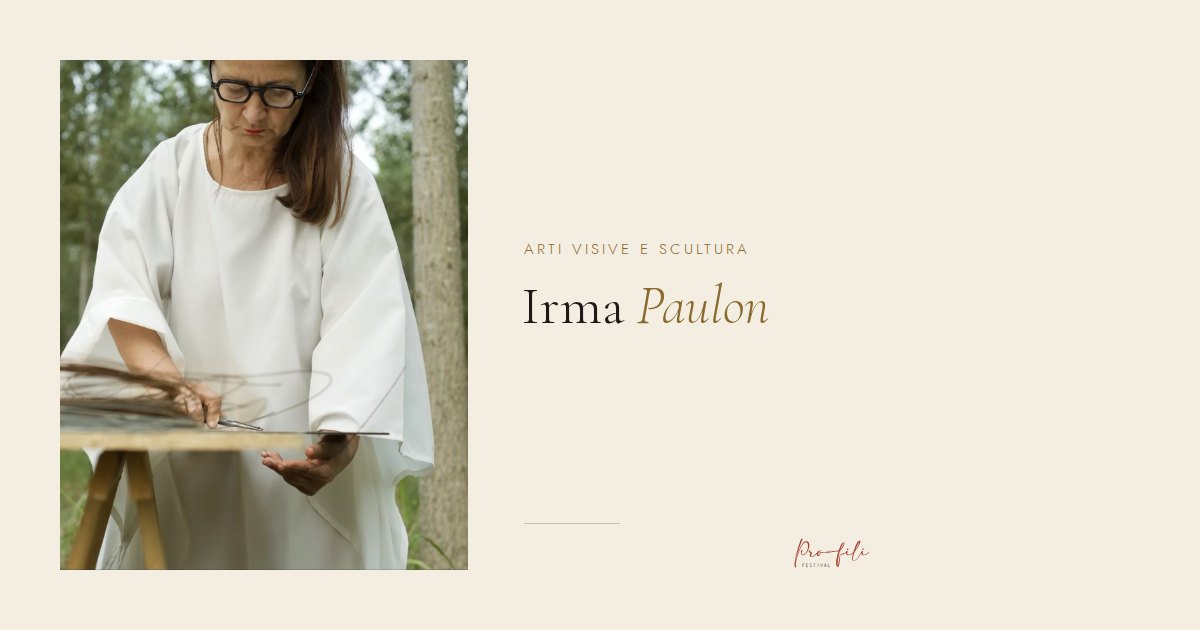
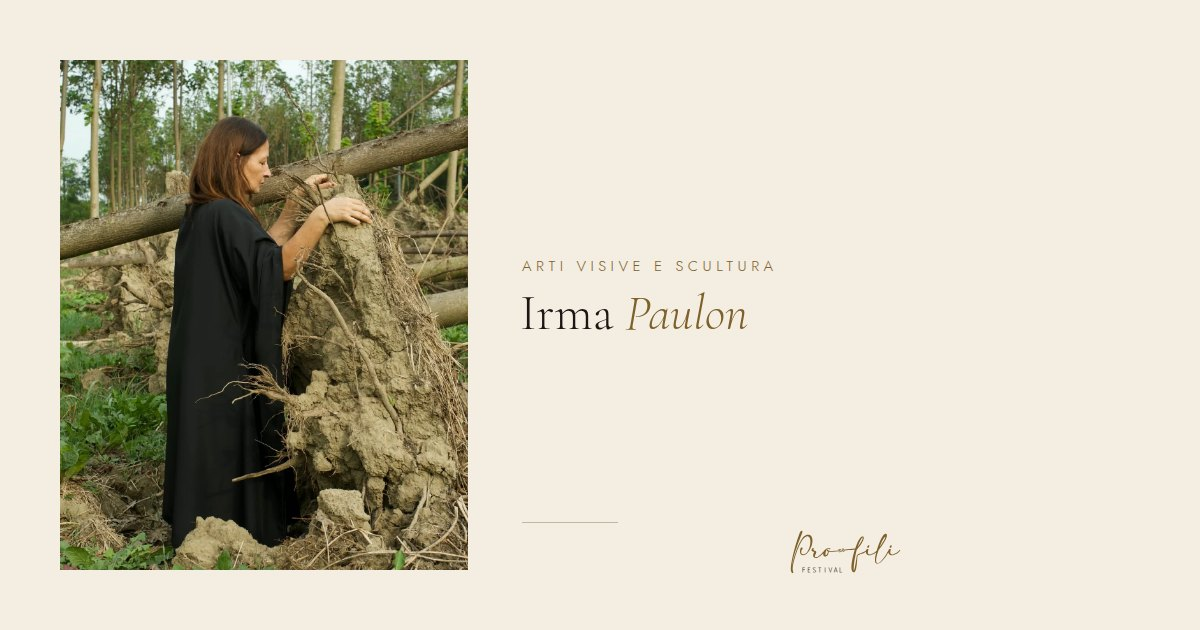
Irma Paulon: nuova foto, di profilo tra le radici (#51)
Claude-Session: https://claude.ai/code/session_01WuBrQzAiBeGJU4FicGTrQ8

diff --git a/assets/js/site.js b/assets/js/site.js
@@ -872,7 +872,7 @@
     {s:"francesca-de-simone",n:"Francesca De Simone",r:"Poesia",t:"Fissa in pochi versi un sentire sconosciuto.",i:"francesca-de-simone.webp",ss:"francesca-de-simone_sm.webp 800w, francesca-de-simone.webp 1280w",a:"Ritratto di Francesca De Simone, di profilo, in bianco e nero",w:1280,h:1600},
     {s:"elia-pellegrini",n:"Elia Pellegrini",r:"Arti visive e 3D",t:"Luce, architettura e tempo, tra i rosoni gotici e il mondo onirico.",i:"elia-pellegrini.webp",ss:"elia-pellegrini_sm.webp 800w, elia-pellegrini.webp 1280w",a:"Ritratto di Elia Pellegrini, con il volto attraversato dalle nuvole",w:1280,h:1600},
     {s:"alessandro-alfonsi",n:"Alessandro Alfonsi",r:"Musica e teatro",t:"Musica e parola, memoria e ascolto.",i:"alessandro-alfonsi.webp",ss:"alessandro-alfonsi_sm.webp 800w, alessandro-alfonsi.webp 1280w",a:"Ritratto di Alessandro Alfonsi, di profilo",w:1280,h:1600},
-    {s:"irma-paulon",n:"Irma Paulon",r:"Arti visive e scultura",t:"Resina, legno, vetro e metallo: la dignità estetica della materia.",i:"irma-paulon.webp",ss:"irma-paulon_sm.webp 800w, irma-paulon.webp 1280w",a:"Ritratto di Irma Paulon al lavoro",w:1280,h:1600},
+    {s:"irma-paulon",n:"Irma Paulon",r:"Arti visive e scultura",t:"Resina, legno, vetro e metallo: la dignità estetica della materia.",i:"irma-paulon.webp",ss:"irma-paulon_sm.webp 800w, irma-paulon.webp 1280w",a:"Irma Paulon di profilo, con le mani sulle radici di un albero sradicato",w:1280,h:1600},
     {s:"nihil",n:"NIHIL",r:"Musica e cantautorato",t:"Erede al trono di un regno senza terra, in viaggio con la musica.",i:"nihil.webp",ss:"nihil_sm.webp 800w, nihil.webp 1280w",a:"Ritratto di NIHIL di profilo, con il volto blu e la maschera di cristalli",w:1280,h:1600},
     {s:"andrea-fabbri",n:"Andrea Fabbri",r:"Pittura e tatuaggio",t:"Tatuaggio e pittura: trasformare l'ombra in emozione.",i:"andrea-fabbri.webp",ss:"andrea-fabbri_sm.webp 800w, andrea-fabbri.webp 1280w",a:"Andrea Fabbri di profilo mentre dipinge, con la tavolozza in mano",w:1280,h:1600}
   ];

diff --git a/index.html b/index.html
@@ -210,7 +210,7 @@
         <p>Musica e parola, memoria e ascolto.</p>
       </figure></a>
       <a class="person rv" href="artisti/irma-paulon.html"><figure>
-        <div class="ph" data-knot="low"><img src="assets/img/irma-paulon.webp" srcset="assets/img/irma-paulon_sm.webp 800w, assets/img/irma-paulon.webp 1280w" sizes="(max-width:640px) 46vw, (max-width:1000px) 30vw, 220px" alt="Ritratto di Irma Paulon al lavoro" width="1280" height="1600" loading="lazy"></div>
+        <div class="ph" data-knot="low"><img src="assets/img/irma-paulon.webp" srcset="assets/img/irma-paulon_sm.webp 800w, assets/img/irma-paulon.webp 1280w" sizes="(max-width:640px) 46vw, (max-width:1000px) 30vw, 220px" alt="Irma Paulon di profilo, con le mani sulle radici di un albero sradicato" width="1280" height="1600" loading="lazy"></div>
         <h3>Irma Paulon</h3><p class="role">Arti visive e scultura</p>
         <p>Resina, legno, vetro e metallo: la dignità estetica della materia.</p>
       </figure></a>

diff --git a/artisti/irma-paulon.html b/artisti/irma-paulon.html
@@ -69,7 +69,7 @@
 <section class="block paper" data-world="paper">
   <div class="wrap article">
     <aside class="rv">
-      <div class="ph artist-ph"><img src="../assets/img/irma-paulon.webp" srcset="../assets/img/irma-paulon_sm.webp 800w, ../assets/img/irma-paulon.webp 1280w" sizes="(max-width:960px) 90vw, 300px" alt="Ritratto di Irma Paulon al lavoro" width="1280" height="1600"></div>
+      <div class="ph artist-ph"><img src="../assets/img/irma-paulon.webp" srcset="../assets/img/irma-paulon_sm.webp 800w, ../assets/img/irma-paulon.webp 1280w" sizes="(max-width:960px) 90vw, 300px" alt="Irma Paulon di profilo, con le mani sulle radici di un albero sradicato" width="1280" height="1600"></div>
       <p class="muted" style="margin:-16px 0 24px;font-size:12px">Foto dell'artista</p>
       <dl>
         <dt>Disciplina</dt><dd>Arti visive, scultura e installazione</dd>
